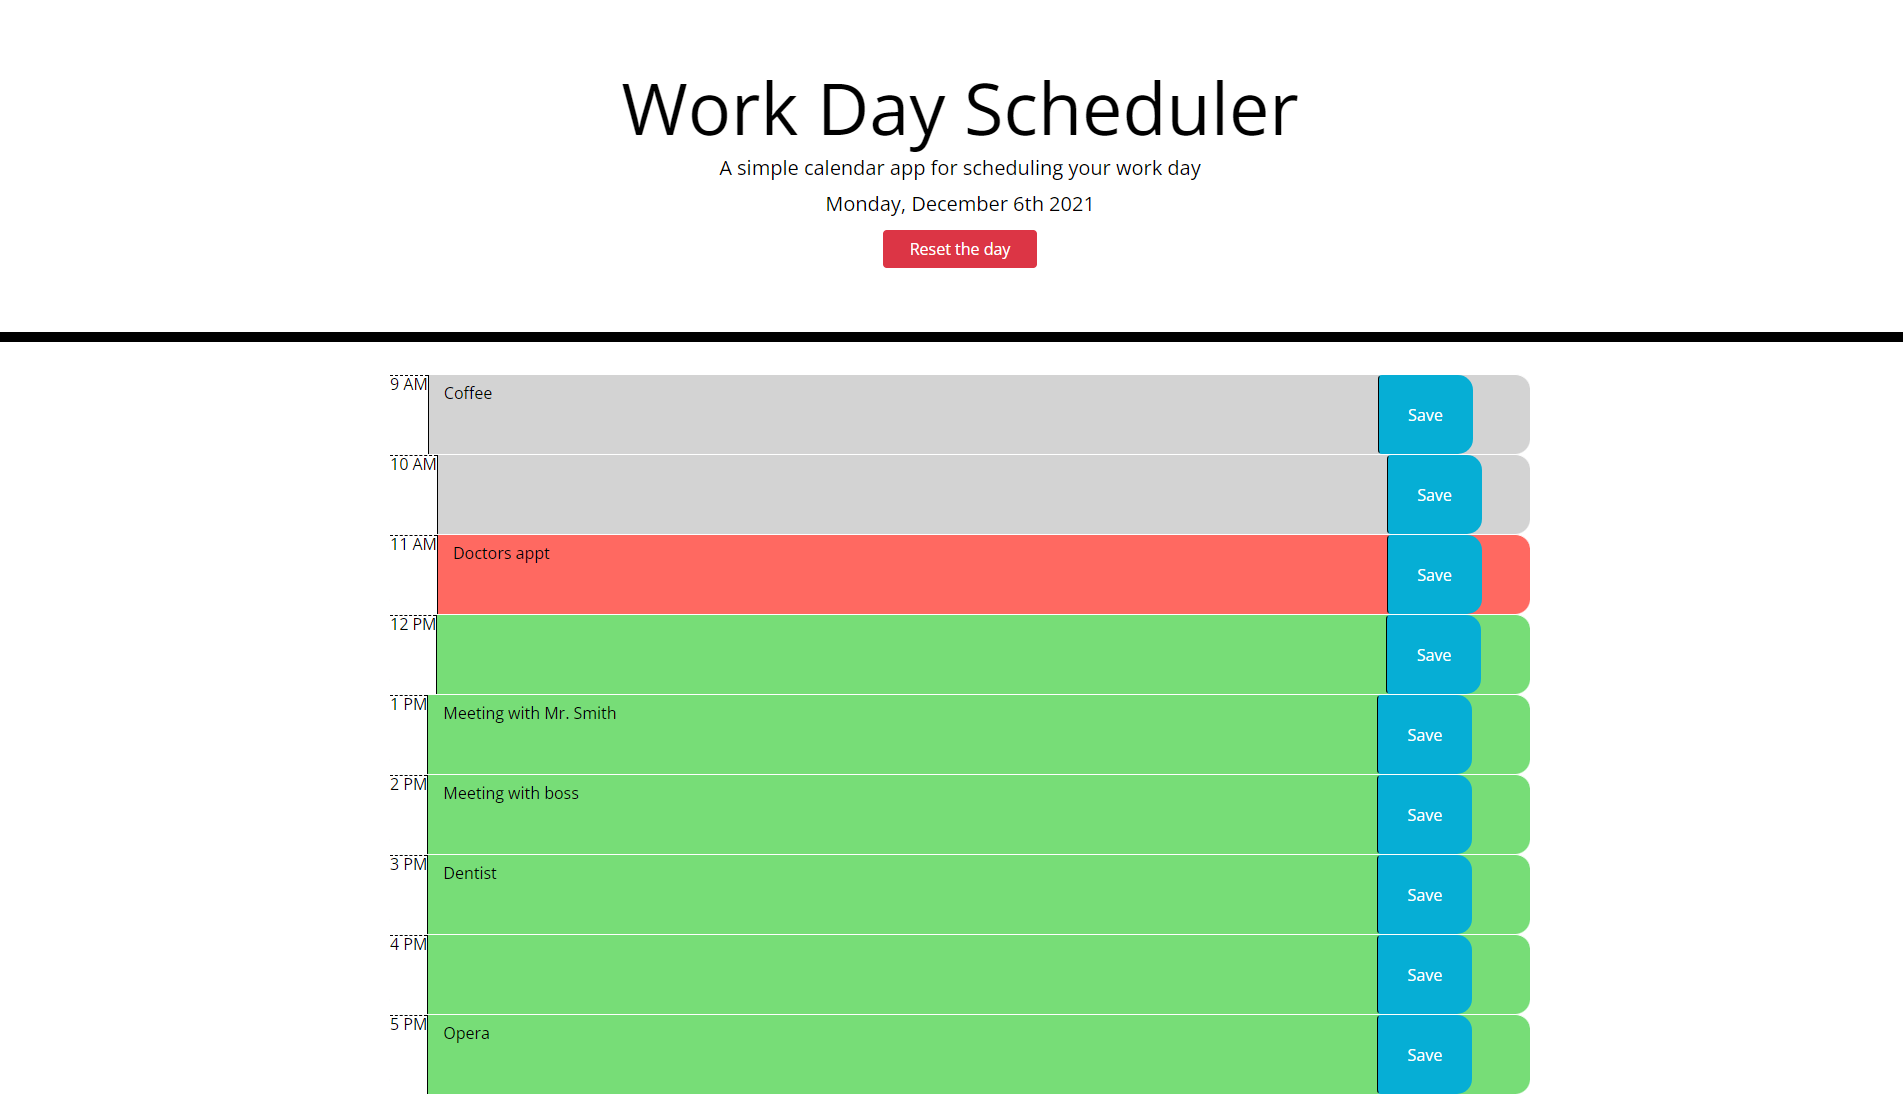
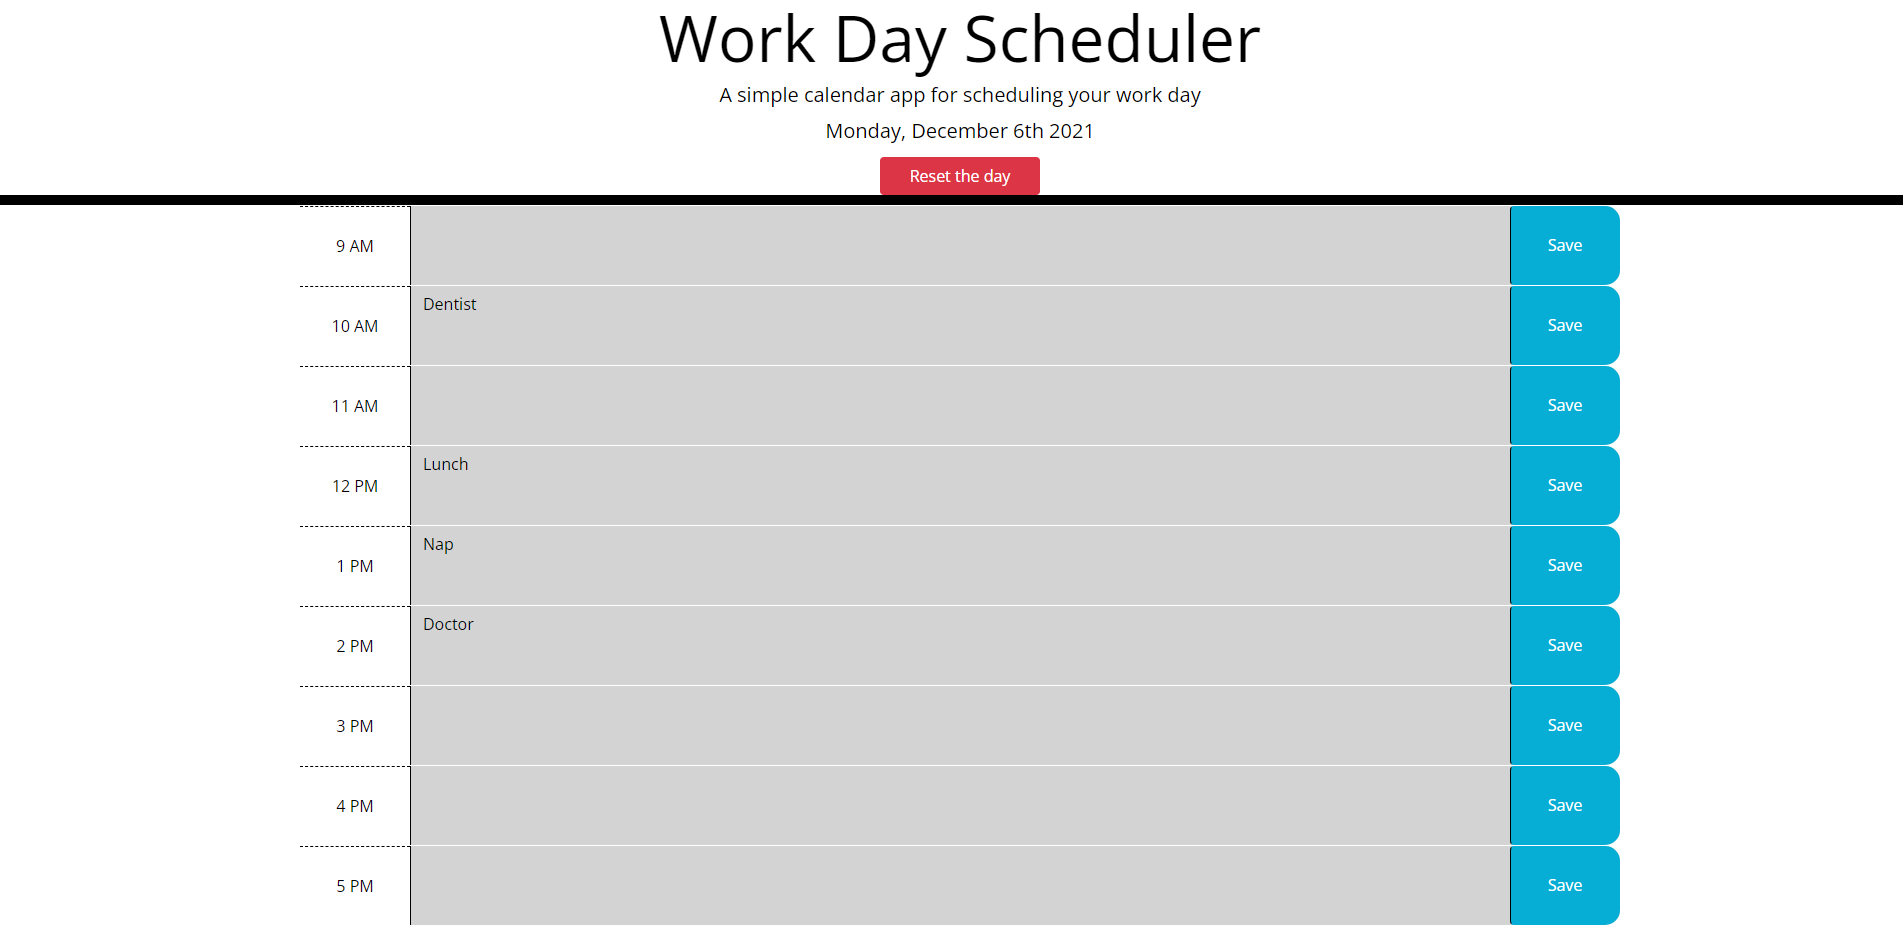
changes to CSS and new screen shot added

diff --git a/index.html b/index.html
@@ -5,9 +5,8 @@
     <meta name="viewport" content="width=device-width, initial-scale=1.0" />
     <meta http-equiv="X-UA-Compatible" content="ie=edge" />
     <script src="https://ajax.googleapis.com/ajax/libs/jquery/3.5.1/jquery.min.js"></script>
-    <link
-      rel="stylesheet"
-      href="https://stackpath.bootstrapcdn.com/bootstrap/4.3.1/css/bootstrap.min.css"
+    
+      <link rel="stylesheet" href="https://cdn.jsdelivr.net/npm/bootstrap@5.1.3/dist/css/bootstrap.min.css"
     />
     <link
       rel="stylesheet"
@@ -36,48 +35,48 @@
     </header>
     <div class="container">
       <div id="hour-9" class="row time-block">
-        <div class="hour col-med-3">9 AM</div>
+        <div class="hour col-sm-1">9 AM</div>
         <textarea class="description col-sm-10"></textarea>
         <button class="btn saveBtn col-sm-1">Save</button>
         
       </div>
       <div id="hour-10" class="row time-block">
-        <div class="hour col-med-3">10 AM</div>
+        <div class="hour col-sm-1">10 AM</div>
         <textarea class="description col-sm-10"></textarea
         ><button class="btn saveBtn col-sm-1">Save</button>
       </div>
       <div id="hour-11" class="row time-block">
-        <div class="hour col-med-3">11 AM</div>
+        <div class="hour col-sm-1">11 AM</div>
         <textarea class="description col-sm-10"></textarea
         ><button class="btn saveBtn col-sm-1">Save</button>
       </div>
       <div id="hour-12" class="row time-block">
-        <div class="hour col-med-3">12 PM</div>
+        <div class="hour col-sm-1">12 PM</div>
         <textarea class="description col-sm-10"></textarea
         ><button class="btn saveBtn col-sm-1">Save</button>
       </div>
       <div id="hour-13" class="row time-block">
-        <div class="hour col-med-3">1 PM</div>
+        <div class="hour col-sm-1">1 PM</div>
         <textarea class="description col-sm-10"></textarea
         ><button class="btn saveBtn col-sm-1">Save</button>
       </div>
       <div id="hour-14" class="row time-block">
-        <div class="hour col-med-3">2 PM</div>
+        <div class="hour col-sm-1">2 PM</div>
         <textarea class="description col-sm-10"></textarea
         ><button class="btn saveBtn col-sm-1">Save</button>
       </div>
       <div id="hour-15" class="row time-block">
-        <div class="hour col-med-3">3 PM</div>
+        <div class="hour col-sm-1">3 PM</div>
         <textarea class="description col-sm-10"></textarea
         ><button class="btn saveBtn col-sm-1">Save</button>
       </div>
       <div id="hour-16" class="row time-block">
-        <div class="hour col-med-3">4 PM</div>
+        <div class="hour col-sm-1">4 PM</div>
         <textarea class="description col-sm-10"></textarea
         ><button class="btn saveBtn col-sm-1">Save</button>
       </div>
       <div id="hour-17" class="row time-block">
-        <div class="hour col-med-3">5 PM</div>
+        <div class="hour col-sm-1">5 PM</div>
         <textarea class="description col-sm-10"></textarea
         ><button class="btn saveBtn col-sm-1">Save</button>
       </div>

diff --git a/assets/style/style.css b/assets/style/style.css
@@ -40,6 +40,9 @@ body {
     background-color: #ffffff;
     color: #000000;
     border-top: 1px dashed #000000;
+    display: flex;
+    flex-direction: column;
+    justify-content: center;
   }
   
   .past {
